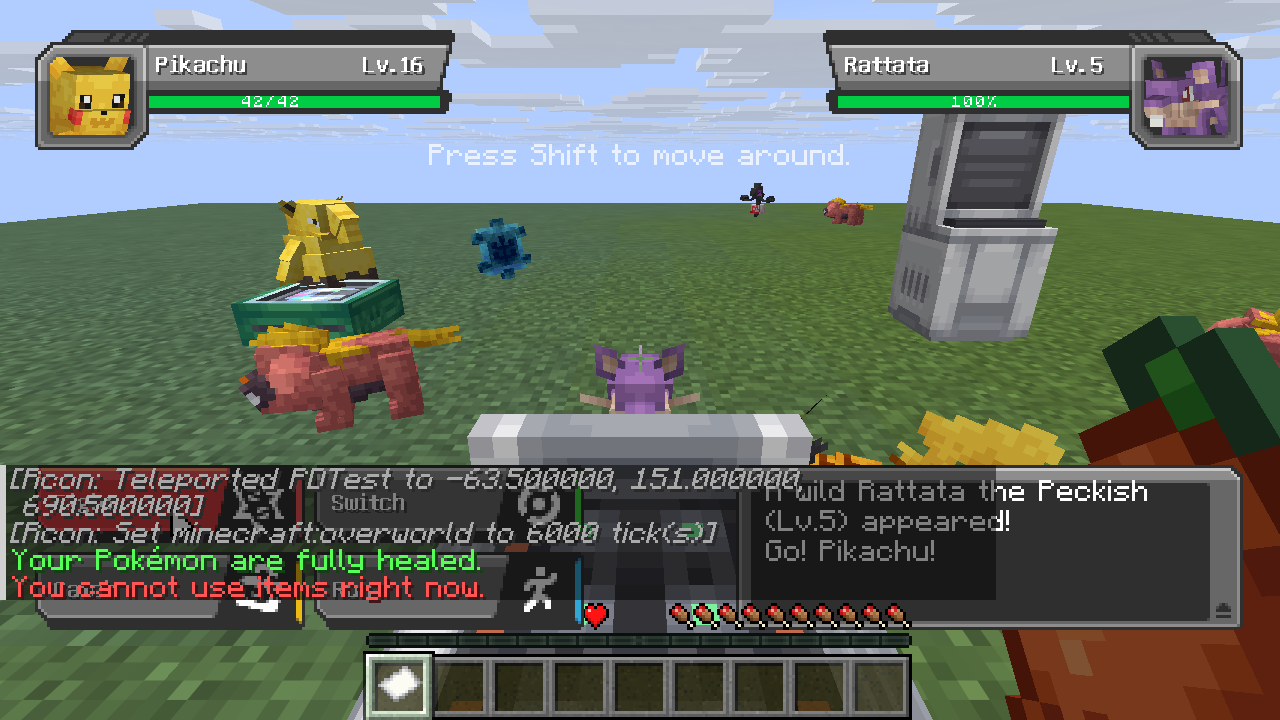
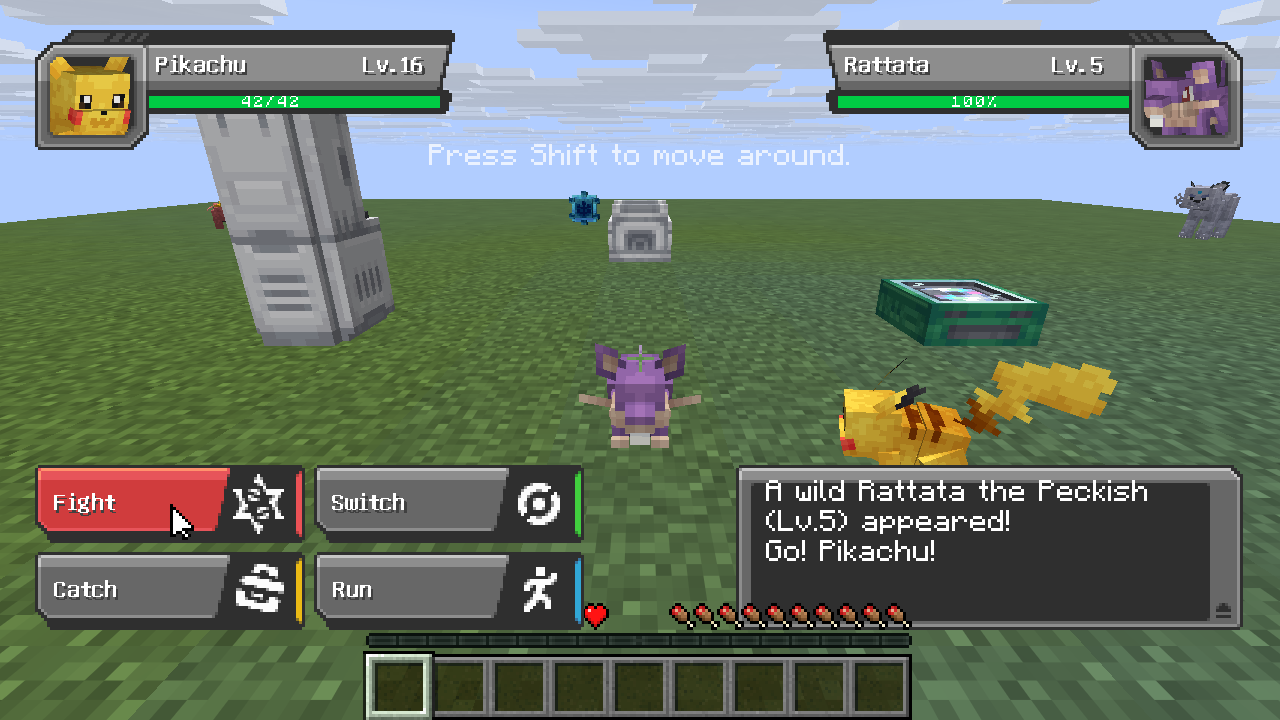
Herds and alphas: Cobblemon's herd spawns, alphas drawn 1.5x on both clients; Cobblemon items drawn in the battle hotbar; mark= spawn property
Claude-Session: https://claude.ai/code/session_013qmVWfL2vttKu2B98Mqwws

diff --git a/plugin/src/main/java/io/github/kahngjoonkoh/cobblemonlink/Spawner.java b/plugin/src/main/java/io/github/kahngjoonkoh/cobblemonlink/Spawner.java
@@ -141,11 +141,45 @@ final class Spawner {
             double wsum = fits.stream().mapToDouble(s -> s.weight).sum(), roll = rnd.nextDouble(wsum);
             Dex.Spawn pick = fits.getLast();
             for (Dex.Spawn s : fits) if ((roll -= s.weight) <= 0) { pick = s; break; }
+            if (pick.herd != null) {
+                herd(p, l, pick, rnd);
+                others.add(l);
+                left--;
+                continue;
+            }
             Entity e = spawn(l, Mon.create(pl.dex, pick.species, level(p, pick.level[0], pick.level[1]), pick.props));
             if (type.equals("submerged") || type.equals("seafloor")) Bukkit.getMobGoals().removeGoal((Mob) e, VanillaGoal.FLOAT); // stays down
             others.add(l);
             left--;
         }
+    }
+
+    /**
+     * Cobblemon's herd spawn: the leader (weighted among the leaders), then followers up to the herd's size, each
+     * member no more than its maxTimes, standing around the leader.
+     */
+    void herd(Player p, Location at, Dex.Spawn s, java.util.Random rnd) {
+        List<Dex.HerdMember> leaders = s.herd.stream().filter(h -> h.leader).toList();
+        List<Dex.HerdMember> followers = new ArrayList<>(s.herd.stream().filter(h -> !h.leader).toList());
+        Dex.HerdMember lead = weighted(leaders, rnd);
+        if (lead == null) return;
+        spawn(at, Mon.create(pl.dex, lead.species, level(p, Math.max(lead.level[0], s.level[0]), Math.min(lead.level[1], s.level[1])), lead.props));
+        Map<Dex.HerdMember, Integer> used = new java.util.HashMap<>();
+        int n = 1 + rnd.nextInt(Math.max(1, s.maxHerd - 1));
+        for (int i = 0; i < n && !followers.isEmpty(); i++) {
+            Dex.HerdMember f = weighted(followers, rnd);
+            if (used.merge(f, 1, Integer::sum) >= f.max) followers.remove(f);
+            Location l = at.clone().add(rnd.nextDouble(-3, 3), 0, rnd.nextDouble(-3, 3));
+            int top = l.getWorld().getHighestBlockYAt(l) + 1; // on the ground near the leader, else beside it
+            if (Math.abs(top - at.getY()) <= 2) l.setY(top); else l = at.clone();
+            spawn(l, Mon.create(pl.dex, f.species, level(p, f.level[0], f.level[1]), f.props));
+        }
+    }
+
+    private static Dex.HerdMember weighted(List<Dex.HerdMember> list, java.util.Random rnd) {
+        double roll = rnd.nextDouble(Math.max(1e-9, list.stream().mapToDouble(h -> h.weight).sum()));
+        for (Dex.HerdMember h : list) if ((roll -= h.weight) <= 0) return h;
+        return list.isEmpty() ? null : list.getLast();
     }
 
     /** The main games' weather for marks: rain is snow where it's cold and a sandstorm where it never rains. */
@@ -212,7 +246,8 @@ final class Spawner {
             e.setSilent(true);
             e.getPersistentDataContainer().set(pl.wildKey, PersistentDataType.STRING, Store.GSON.toJson(mon));
         });
-        model(pig, mon.model(pl.dex));
+        model(pig, mon.model(pl.dex), mon.alpha ? 1.5f : 1);
+        if (mon.alpha) pig.getAttribute(org.bukkit.attribute.Attribute.SCALE).setBaseValue(1.5); // and its hitbox
         // Cobblemon's wild Pokémon don't follow food or breed like pigs (Paper keeps float, wander and look goals)
         var goals = Bukkit.getMobGoals();
         goals.removeGoal(pig, VanillaGoal.TEMPT);
@@ -317,9 +352,15 @@ final class Spawner {
      * The BetterModel model on a carrier, animated for Java players only: Bedrock players see GeyserModelEngine's
      * native entity (animated on the phone), and Geyser would only decode and drop the Java bone stream.
      */
-    private static void model(Pig pig, String model) {
-        BetterModel.model(model).ifPresent(r -> r.create(BukkitAdapter.adapt(pig)).getPipeline()
-                .viewFilter(p -> p.uuid().getMostSignificantBits() != 0)); // Ui.bedrock: Floodgate's UUIDs
+    private static void model(Pig pig, String model) { model(pig, model, 1); }
+
+    /** scale: the tracker's (GeyserModelEngine sends the same scale to Bedrock). */
+    private static void model(Pig pig, String model, float scale) {
+        BetterModel.model(model).ifPresent(r -> {
+            var t = r.create(BukkitAdapter.adapt(pig));
+            if (scale != 1) t.scaler(kr.toxicity.model.api.tracker.ModelScaler.value(scale));
+            t.getPipeline().viewFilter(p -> p.uuid().getMostSignificantBits() != 0); // Ui.bedrock: Floodgate's UUIDs
+        });
     }
 
     static void face(Entity e, Location target) {

diff --git a/tools/build_data.py b/tools/build_data.py
@@ -124,19 +124,29 @@ def species_looks(res, dex, modeled):
 
 def spawns(res, dex):
     out = []
-    for f in sorted(glob.glob(f'{res}/data/cobblemon/spawn_pool_world/*.json')):
+    def rng(r, default='5-30'):
+        lo, _, hi = str(r or default).partition('-')
+        return [int(lo), int(hi or lo)]
+    for f in sorted(glob.glob(f'{res}/data/cobblemon/spawn_pool_world/**/*.json', recursive=True)):  # herds/ too
         for s in json.load(open(f)).get('spawns', []):
-            words = (s.get('pokemon') or '').split()
-            sid = words[0] if words else ''
             cond, anti = s.get('condition', {}), s.get('anticondition', {})
-            if (s.get('type') != 'pokemon' or s.get('spawnablePositionType') not in POSITIONS or sid not in dex
+            herd = None
+            if s.get('type') == 'pokemon-herd':  # Cobblemon's herds: a leader (an alpha in herds/) and followers
+                herd = [{'species': h['pokemon'].split()[0], 'props': h['pokemon'].split()[1:], 'weight': h.get('weight', 1),
+                         'level': rng(h.get('levelRange'), s.get('levelRange')), 'max': h.get('maxTimes', 1),
+                         'leader': bool(h.get('isLeader'))} for h in s.get('herdablePokemon', []) if h['pokemon'].split()[0] in dex]
+                leaders = [h for h in herd if h['leader']]
+                words = [leaders[0]['species']] if leaders else []
+            else:
+                words = (s.get('pokemon') or '').split()
+            sid = words[0] if words else ''
+            if (s.get('type') not in ('pokemon', 'pokemon-herd') or s.get('spawnablePositionType') not in POSITIONS or sid not in dex
                     or set(cond) - KNOWN_CONDITIONS or set(anti) - KNOWN_CONDITIONS):
                 continue
-            lo, _, hi = str(s.get('level', '5-30')).partition('-')
             props = [w for w in words[1:] if w != sid]  # form/feature properties: alolan, flower=white, region_bias=hisui
             out.append({'species': sid, 'bucket': s['bucket'], 'weight': s['weight'], **({'props': props} if props else {}),
-                        'level': [int(lo), int(hi or lo)], 'type': s['spawnablePositionType'], 'cond': cond,
-                        **({'anti': anti} if anti else {})})
+                        'level': rng(s.get('level') or s.get('levelRange')), 'type': s['spawnablePositionType'], 'cond': cond,
+                        **({'anti': anti} if anti else {}), **({'herd': herd, 'maxHerd': s.get('maxHerdSize', 4)} if herd else {})})
     return out
 
 

diff --git a/plugin/src/main/java/io/github/kahngjoonkoh/cobblemonlink/Hotbar.java b/plugin/src/main/java/io/github/kahngjoonkoh/cobblemonlink/Hotbar.java
@@ -25,6 +25,7 @@ import org.bukkit.potion.PotionEffectType;
 final class Hotbar {
     static final int BC = 2 | 8, ITEM = BC | 16; // Ui.Overlay corner: bottom centre; bit 16 = doubled (8 px sprite -> 16)
     static Map<String, Component> icons = Map.of();     // Icons.java, set at startup
+    static Map<String, String> cobblemonIcons = Map.of(); // Cobblemon item id -> its texture (items.json), set at startup
     static Map<String, Icons.Sprite> hud = Map.of();
 
     private final Player player;
@@ -60,8 +61,13 @@ final class Hotbar {
     /** Hud.extractSlot, without the durability bar: the icon, and the count bottom-right with its shadow. */
     private static void slot(Ui.Overlay o, int x, ItemStack it) {
         if (it == null || it.isEmpty()) return;
-        Component icon = CobblemonLink.BALL_MODEL.equals(it.getItemMeta().getItemModel())
-                ? Ui.glyphs("\ue270") : icons.get(it.getType().getKey().getKey()); // build_ui.py: the Poké Ball
+        var model = it.getItemMeta().getItemModel();
+        String tex = model == null || !model.getNamespace().equals("cobblemon") ? null : model.getKey().startsWith("tm_")
+                ? "item/tms/" + model.getKey().substring(3) + "_tm" : cobblemonIcons.get(model.getKey());
+        Component icon = CobblemonLink.BALL_MODEL.equals(model) ? Ui.glyphs("\ue270") // build_ui.py: the Poké Ball
+                : tex != null ? Component.object(net.kyori.adventure.text.object.ObjectContents.sprite(
+                        net.kyori.adventure.key.Key.key("minecraft", "items"), net.kyori.adventure.key.Key.key("cobblemon", tex))) // the items pack's sprite
+                : icons.get(it.getType().getKey().getKey());
         if (icon instanceof TextComponent) o.add(BC, x, 19, icon, 17); // rendered icon (Icons.pack), 16 px + 1
         else if (icon != null) o.add(ITEM, x, 19, icon, 8);            // the client's flat sprite
         if (it.getAmount() > 1) {

diff --git a/plugin/src/main/java/io/github/kahngjoonkoh/cobblemonlink/Mon.java b/plugin/src/main/java/io/github/kahngjoonkoh/cobblemonlink/Mon.java
@@ -42,6 +42,7 @@ final class Mon {
         return mark == null ? n : Ui.lang.get(loc, "cobblemon.mark." + mark + ".title", n);
     }
 
+    boolean alpha; // Cobblemon's alpha: drawn 1.5x
     String mark;  // Cobblemon's mark (mark_time_dawn...): its title is the Pokémon's ("Pikachu the Peckish")
     List<String> benched = new ArrayList<>(); // Cobblemon's benched moves: known before, can be swapped back in
 
@@ -92,6 +93,13 @@ final class Mon {
                 : s.maleRatio < 0 ? "" : r.nextDouble() < s.maleRatio ? "M" : "F";
         for (int i = 0; i < 6; i++) m.ivs[i] = r.nextInt(32);
         m.friendship = s.baseFriendship;
+        for (String p : props) if (p.startsWith("held_item=")) m.held = p.substring(p.indexOf(':') + 1); // cobblemon:water_gem
+        for (String p : props) if (p.startsWith("mark=")) m.mark = p.substring(5); // e.g. /pokespawn rattata 5 mark=mark_rare
+        if (props.contains("alpha=true")) { // Cobblemon's alphas: big, perfect in three stats, the Alpha Mark
+            m.alpha = true;
+            m.mark = "mark_alpha";
+            for (int i = 0, set = 0; set < 3 && i < 30; i++) { int k = r.nextInt(6); if (m.ivs[k] != 31) { m.ivs[k] = 31; set++; } }
+        }
         // the four most recent level-up moves, like a wild Pokémon in the main games
         for (List<String> lm : s.moves) {
             if (Integer.parseInt(lm.get(0)) > m.level || m.moves.contains(lm.get(1))) continue;

diff --git a/tools/build_items.py b/tools/build_items.py
@@ -222,6 +222,8 @@ def build(res, out):
     model = lambda m: {'type': 'minecraft:model', 'model': m}
     for i in items:
         icons[i] = model_files(res, f'item/{i}', java)
+        if icons[i] and '/assets/cobblemon/textures/' in icons[i]:  # the battle hotbar draws it as the client's sprite
+            items[i]['icon'] = icons[i].split('/assets/cobblemon/textures/')[1][:-4]
         d = model('cobblemon:item/' + i)
         if items[i]['kind'] == 'ball' and model_files(res, f'item/{i}_model', java):
             # in flight (a thrown item renders as "ground"): Cobblemon's 3D ball, like the Poké Ball's
@@ -303,7 +305,7 @@ def demo():
         json.dump({'evolutions': [{'variant': 'item_interact', 'requiredContext': 'cobblemon:fire_stone'}]},
                   open(f'{t}/data/cobblemon/species/g1/vulpix.json', 'w'))
         items = build(t, t)
-        assert items == {'potion': {'name': 'Potion', 'kind': 'potion', 'heal': 20}}, items  # no model: no fire stone
+        assert items == {'potion': {'name': 'Potion', 'kind': 'potion', 'heal': 20, 'icon': 'item/medicine/potion'}}, items  # no model: no fire stone
         z = zipfile.ZipFile(f'{t}/items-pack.zip')
         assert 'assets/cobblemon/textures/item/medicine/potion.png' in z.namelist()
         assert json.load(open(f'{t}/geyser-items.json'))['items']['minecraft:paper'][0]['model'] == 'cobblemon:potion'

diff --git a/plugin/src/main/java/io/github/kahngjoonkoh/cobblemonlink/AdminCommands.java b/plugin/src/main/java/io/github/kahngjoonkoh/cobblemonlink/AdminCommands.java
@@ -21,6 +21,13 @@ final class AdminCommands {
     AdminCommands(CobblemonLink pl) { this.pl = pl; }
 
     void register() {
+        add("spawnherd", "/spawnherd <leader species>", (s, a) -> { // a herd as the spawner makes them, 3 blocks ahead
+            if (!(s instanceof Player p)) throw new IllegalArgumentException("Players only.");
+            Dex.Spawn h = pl.dex.spawns.stream().filter(x -> x.herd != null && x.species.equals(a[0])).findFirst()
+                    .orElseThrow(() -> new IllegalArgumentException("No herd led by " + a[0] + "."));
+            pl.spawner.herd(p, p.getLocation().add(p.getLocation().getDirection().setY(0).normalize().multiply(4)), h, new java.util.Random());
+            return "A herd led by " + a[0] + ".";
+        });
         add("spawnnpc", "/spawnnpc <npc>", (s, a) -> {
             if (!(s instanceof Player p)) throw new IllegalArgumentException("Players only.");
             return pl.npcs.spawn(p.getLocation(), a[0]);

diff --git a/plugin/src/main/java/io/github/kahngjoonkoh/cobblemonlink/Dex.java b/plugin/src/main/java/io/github/kahngjoonkoh/cobblemonlink/Dex.java
@@ -79,6 +79,18 @@ final class Dex {
         int[] level;
         Cond cond = new Cond(), anti;               // Cobblemon's condition and anticondition, as written
         List<String> props = List.of(); // Cobblemon spawn properties: alolan, flower=white, region_bias=hisui
+        List<HerdMember> herd;          // a herd spawn: its leader and followers (Spawner.herd)
+        int maxHerd;
+    }
+
+    /** One of a herd's Pokémon: Cobblemon's herdablePokemon. */
+    static final class HerdMember {
+        String species;
+        List<String> props = List.of();
+        double weight;
+        int[] level;
+        int max = 1;
+        boolean leader;
     }
 
     /** One of Cobblemon's spawning conditions; a null field isn't checked. */

diff --git a/plugin/src/main/java/io/github/kahngjoonkoh/cobblemonlink/CobblemonLink.java b/plugin/src/main/java/io/github/kahngjoonkoh/cobblemonlink/CobblemonLink.java
@@ -103,6 +103,9 @@ public final class CobblemonLink extends JavaPlugin implements Listener {
         store = new Store(getDataFolder().toPath().resolve("players"), getConfig().getInt("pc.boxes", 40));
         try {
             items = Items.load(this, getDataFolder().toPath().resolve("items.json")); // setup.sh installs it
+            Map<String, String> tex = new java.util.HashMap<>();
+            items.defs.forEach((id, d) -> { if (d.icon != null) tex.put(id, d.icon); });
+            Hotbar.cobblemonIcons = tex;
         } catch (IOException e) {
             getLogger().warning("items.json unreadable: " + e);
         }

diff --git a/plugin/src/main/java/io/github/kahngjoonkoh/cobblemonlink/Items.java b/plugin/src/main/java/io/github/kahngjoonkoh/cobblemonlink/Items.java
@@ -29,7 +29,7 @@ import org.bukkit.persistence.PersistentDataType;
  */
 final class Items {
     static final class Def {
-        String name, kind, stat, nature;
+        String name, kind, stat, nature, icon; // icon: its texture (item/medicine/potion), for the battle hotbar
         int heal, pp, exp, amount;
         double ratio;
         List<String> cure = List.of();

diff --git a/PARITY.md b/PARITY.md
@@ -25,7 +25,7 @@ Counts: see [the summary at the end](#summary).
 | Caps, distances, despawn | 1 per chunk, 8 per pass, 16–64 blocks; aging despawner | Same | ✅ | ✅ |
 | Shinies | 1/8192, shiny textures | Same | ✅ | ✅ |
 | Regional forms, features, gender | ✓ | Spawn properties and species features | ✅ | ✅ |
-| Herds, alphas (1.8.0) | ✓ | — | ⬜ | ⬜ |
+| Herds, alphas (1.8.0) | ✓ | Cobblemon's 1,260 herd spawns (`spawn_pool_world/herds`): a leader, then followers around it up to the herd's size, each no more than its maxTimes; alphas are drawn 1.5x on both clients (GeyserModelEngine sends the tracker's scale), get three perfect IVs, their held item and the Alpha Mark ([herd](docs/evidence/m16-java-herd.png), [alpha beside a normal one](docs/evidence/m16-java-alpha-vs-normal.png)); `/spawnherd <leader>` for admins | ✅ | ✅ |
 | Influences (Sweet Incense, Poké Snacks, Saccharine log, bait) | ✓ | — | ⬜ | ⬜ |
 | Wild model and animations | ✓ | Cobblemon's models: BetterModel (Java), GeyserModelEngine (Bedrock) | ✅ | ✅ |
 
@@ -92,7 +92,7 @@ Counts: see [the summary at the end](#summary).
 | Pasture | ✓ | The Pasture block: party Pokémon put out roam around it, taken back from its chest menu (up to 16) | 🟡 | 🟡 |
 | Breeding, eggs | Not in 1.8.2 | — | ➖ | ➖ |
 | Size variation | ✓ | — | ⬜ | ⬜ |
-| Marks (1.7+) | 168 | Wild Pokémon roll Cobblemon's chance marks as the main games do (Rare, Personality, Uncommon, time of day, weather, Fishing, Revival); the title shows when it appears ("A wild Rattata the Peckish", [evidence](docs/evidence/m13-java-marked-wild.png)) and in the Summary; no ribbons, mark icons or choosing the shown mark | 🟡 | 🟡 |
+| Marks (1.7+) | 168 | Wild Pokémon roll Cobblemon's chance marks as the main games do (Rare, Personality, Uncommon, time of day, weather, Fishing, Revival); the title shows when it appears ("A wild Rattata the Peckish", [evidence](docs/evidence/m13-java-marked-wild.png)) and in the Summary ([Summary](docs/evidence/m13-java-marked-summary.png)); no ribbons, mark icons or choosing the shown mark | 🟡 | 🟡 |
 | Cosmetic items | 30 | — | ⬜ | ⬜ |
 
 ## Interaction and world
@@ -145,8 +145,8 @@ Counts: see [the summary at the end](#summary).
 
 | | ✅ | 🟡 | ⬜ | ➖ |
 |---|---|---|---|---|
-| Java | 48 | 36 | 10 | 1 |
-| Bedrock | 48 | 36 | 10 | 1 |
+| Java | 49 | 36 | 9 | 1 |
+| Bedrock | 49 | 36 | 9 | 1 |
 
 ## Suggested order
 
